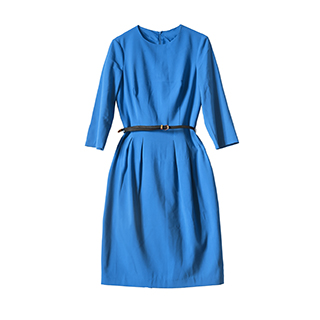
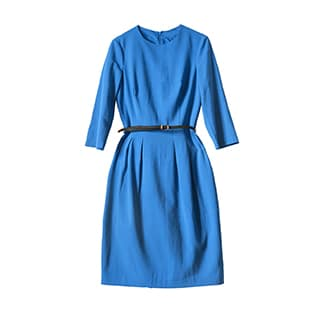
Optimize images

diff --git a/css/style.css b/css/style.css
@@ -1,5 +1,111 @@
 /*
 /*
+/* css reset */
+/* http://meyerweb.com/eric/tools/css/reset/ 
+   v2.0 | 20110126
+   License: none (public domain)
+*/
+
+html, body, div, span, applet, object, iframe,
+h1, h2, h3, h4, h5, h6, p, blockquote, pre,
+a, abbr, acronym, address, big, cite, code,
+del, dfn, em, img, ins, kbd, q, s, samp,
+small, strike, strong, sub, sup, tt, var,
+b, u, i, center,
+dl, dt, dd, ol, ul, li,
+fieldset, form, label, legend,
+table, caption, tbody, tfoot, thead, tr, th, td,
+article, aside, canvas, details, embed, 
+figure, figcaption, footer, header, hgroup, 
+menu, nav, output, ruby, section, summary,
+time, mark, audio, video {
+	margin: 0;
+	padding: 0;
+	border: 0;
+	font-size: 100%;
+	font: inherit;
+	vertical-align: baseline;
+}
+/* HTML5 display-role reset for older browsers */
+article, aside, details, figcaption, figure, 
+footer, header, hgroup, menu, nav, section {
+	display: block;
+}
+body {
+	line-height: 1;
+}
+ol, ul {
+	list-style: none;
+}
+blockquote, q {
+	quotes: none;
+}
+blockquote:before, blockquote:after,
+q:before, q:after {
+	content: '';
+	content: none;
+}
+table {
+	border-collapse: collapse;
+	border-spacing: 0;
+}
+
+/*
+/*
+/* @font-face declarations */
+@font-face {
+    font-family: "Raleway Light";
+    src: url("../fonts/Raleway-Light.eot");
+    src: url("../fonts/Raleway-Light.eot?#iefix") format("embedded-opentype"),
+        url("../fonts/Raleway-Light.woff") format("woff"),
+        url("../fonts/Raleway-Light.ttf") format("truetype"),
+        url("../fonts/Raleway-Light.svg#ralewaylight") format("svg");
+    font-weight: normal;
+    font-style: normal;
+}
+
+@font-face {
+    font-family: "Raleway Light";
+    src: url("../fonts/Raleway-Medium.eot");
+    src: url("../fonts/Raleway-Medium.eot?#iefix") format("embedded-opentype"), url("../fonts/Raleway-Medium.woff")
+        format("woff"), url("../fonts/Raleway-Medium.ttf") format("truetype"), url("../fonts/Raleway-Medium.svg#ralewaylight")
+        format("svg");
+    font-weight: bold;
+    font-style: normal;
+  }
+
+@font-face {
+    font-family: "Playfair Display";
+    src: url("../fonts/PlayfairDisplay-Regular.eot");
+    src: url("../fonts/RPlayfairDisplay-Regular.eot?#iefix") format("embedded-opentype"), url("../fonts/PlayfairDisplay-Regular.woff")
+        format("woff"), url("../fonts/PlayfairDisplay-Regular.ttf") format("truetype"), url("../fonts/PlayfairDisplay-Regular.svg#playfairdisplay")
+        format("svg");
+    font-weight: normal;
+    font-style: normal;
+  }
+
+@font-face {
+    font-family: "Playfair Display";
+    src: url("../fonts/PlayfairDisplay-Bold.eot");
+    src: url("../fonts/RPlayfairDisplay-Bold.eot?#iefix") format("embedded-opentype"), url("../fonts/PlayfairDisplay-Bold.woff")
+        format("woff"), url("../fonts/PlayfairDisplay-Bold.ttf") format("truetype"), url("../fonts/PlayfairDisplay-Bold.svg#playfairdisplay")
+        format("svg");
+    font-weight: bold;
+    font-style: normal;
+}
+
+@font-face {
+    font-family: "Playfair Display";
+    src: url("../fonts/PlayfairDisplay-Italic.eot");
+    src: url("../fonts/RPlayfairDisplay-Italic.eot?#iefix") format("embedded-opentype"), url("../fonts/PlayfairDisplay-Italic.woff")
+        format("woff"), url("../fonts/PlayfairDisplay-Italic.ttf") format("truetype"), url("../fonts/PlayfairDisplay-Italic.svg#playfairdisplay")
+        format("svg");
+    font-weight: normal;
+    font-style: italic;
+}
+
+/*
+/*
 /* general styles */
 html {
     font-size: 14px;
@@ -89,16 +195,6 @@ button {
    overflow: hidden;
 }
 
-/* .screen-reader-text:focus {
-    clip: auto !important;
-    display: block;
-    height: auto;
-    left: 5px;
-    top: 5px;
-    width: auto;
-    z-index: 100000;
- } */
-
 /*
 /*
 /* header styles */
@@ -166,7 +262,7 @@ nav li:hover {
 
 .cart-items {
     position: absolute;
-    right: 0.7rem;
+    right: .7rem;
     font-weight: bold;
     background: #e2574c;
     color:#fff;

diff --git a/index.html b/index.html
@@ -6,8 +6,6 @@
     <meta http-equiv="X-UA-Compatible" content="ie=edge">	
     <meta name="format-detection" content="telephone=no"/>
     <title>Aloha Apparel Co.</title>
-    <link rel="stylesheet" href="css/reset.css">
-    <link rel="stylesheet" href="css/fonts.css">
     <link rel="stylesheet" href="css/flickity.min.css" media="screen">
     <link rel="stylesheet" href="https://cdnjs.cloudflare.com/ajax/libs/font-awesome/4.7.0/css/font-awesome.min.css">
     <link rel="stylesheet" href="css/style.css">
